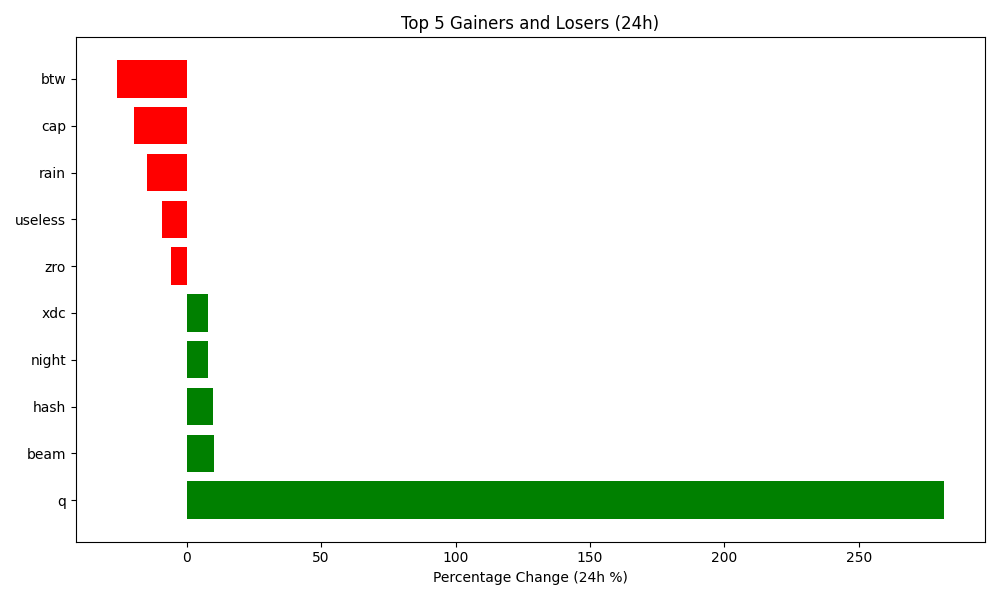
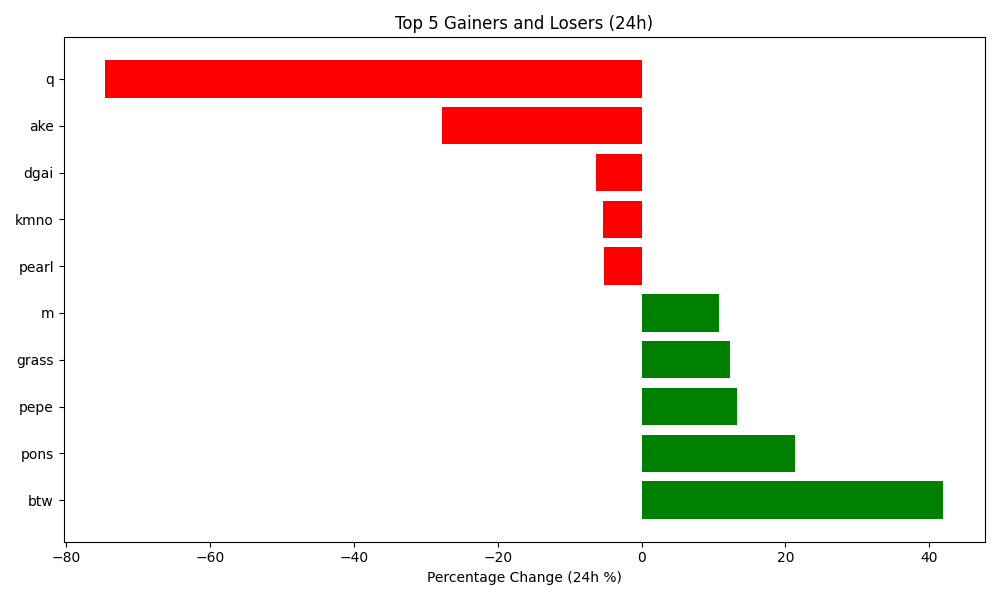
Auto-update crypto data and plot

diff --git a/README.md b/README.md
@@ -4,7 +4,7 @@ Author: Hitesh Agrawal
 This repository automatically tracks the top 5 gaining, top 5 losing, and top 5 highest volume cryptocurrencies in the last 24 hours using the CoinGecko API, Python, Matplotlib, and GitHub Actions updates the below content everyday at midnight.
 
 <!-- START_DYNAMIC_CONTENT -->
-Last updated: 2026-10-27 03:09 UTC
+Last updated: 2026-10-28 03:23 UTC
 
 ![Crypto Movers Plot](crypto_movers_plot.png)
 
@@ -12,33 +12,33 @@ Last updated: 2026-10-27 03:09 UTC
 
 | Rank | Coin | Price Change (24h %) | Volume (USD) | Current Price (USD) |
 | :--: | :--: | :------------------: | :----------: | :-----------------: |
-| 1 | q | 281.56% | $225,684,545 | $0.2082 |
-| 2 | beam | 10.15% | $36,190,357 | $0.0033 |
-| 3 | hash | 9.65% | $53,699 | $0.0074 |
-| 4 | night | 8.07% | $16,654,373 | $0.0396 |
-| 5 | xdc | 7.76% | $22,115,729 | $0.0334 |
+| 1 | btw | 41.91% | $15,108,037 | $1.7500 |
+| 2 | pons | 21.38% | $37,882,133 | $0.2887 |
+| 3 | pepe | 13.30% | $432,486,703 | $0.0000 |
+| 4 | grass | 12.26% | $27,689,908 | $0.7563 |
+| 5 | m | 10.82% | $2,292,427 | $1.0820 |
 
 
 **👇 Top 5 Losers (24h)**
 
 | Rank | Coin | Price Change (24h %) | Volume (USD) | Current Price (USD) |
 | :--: | :--: | :------------------: | :----------: | :-----------------: |
-| 1 | btw | -25.89% | $31,179,466 | $1.2500 |
-| 2 | cap | -19.46% | $120,618,213 | $0.0934 |
-| 3 | rain | -14.86% | $18,111,294 | $0.0072 |
-| 4 | useless | -9.01% | $13,325,011 | $0.1502 |
-| 5 | zro | -5.82% | $71,499,088 | $1.6100 |
+| 1 | q | -74.50% | $104,917,836 | $0.0541 |
+| 2 | ake | -27.77% | $36,351,693 | $0.0224 |
+| 3 | dgai | -6.29% | $29,742,233 | $0.7952 |
+| 4 | kmno | -5.33% | $8,972,081 | $0.0397 |
+| 5 | pearl | -5.28% | $5,432,593 | $1.6600 |
 
 
 **💎 Top 5 by Trade Volume (24h)**
 
 | Rank | Coin | Price Change (24h %) | Volume (USD) | Current Price (USD) |
 | :--: | :--: | :------------------: | :----------: | :-----------------: |
-| 1 | usdt | -0.03% | $44,773,812,101 | $0.9987 |
-| 2 | btc | -0.03% | $27,382,343,616 | $79,646.0000 |
-| 3 | usdc | -0.04% | $11,682,828,733 | $0.9994 |
-| 4 | eth | -0.16% | $9,201,951,283 | $2,308.2300 |
-| 5 | sol | -0.96% | $2,342,599,735 | $99.9800 |
+| 1 | usdt | 0.01% | $42,164,468,141 | $0.9988 |
+| 2 | btc | 1.56% | $23,850,884,677 | $80,875.0000 |
+| 3 | usdc | 0.01% | $10,496,449,391 | $0.9994 |
+| 4 | eth | 2.04% | $9,588,810,401 | $2,356.2200 |
+| 5 | sol | 1.68% | $2,007,103,363 | $101.6400 |
 
 
 <!-- END_DYNAMIC_CONTENT -->
